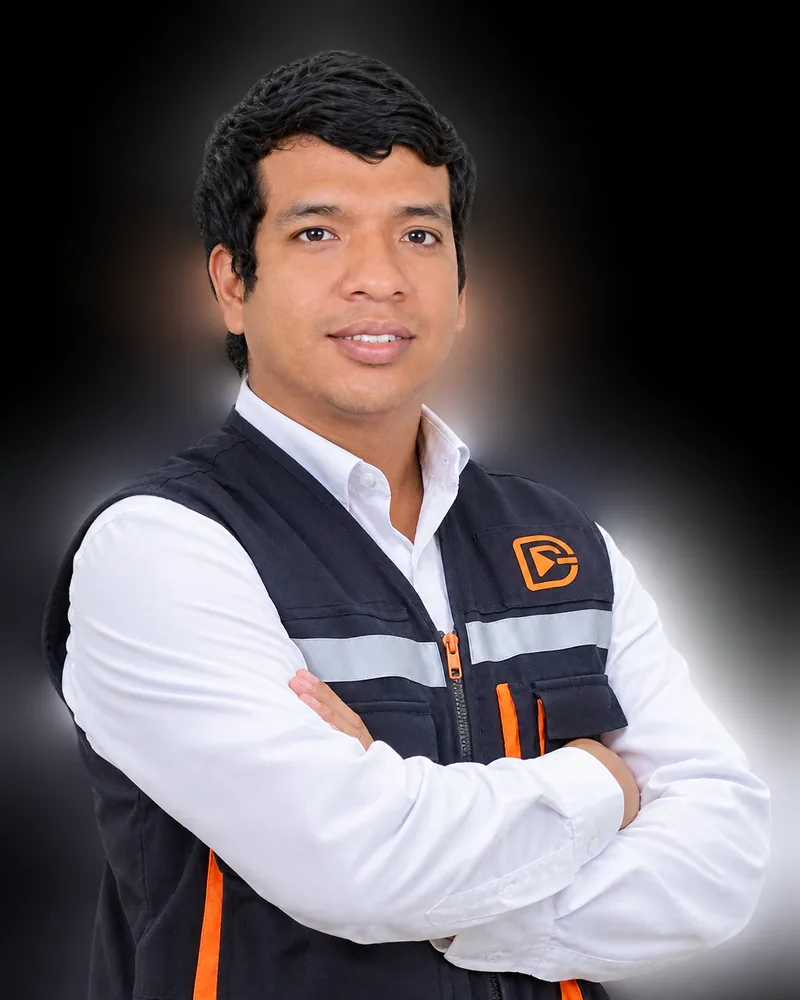
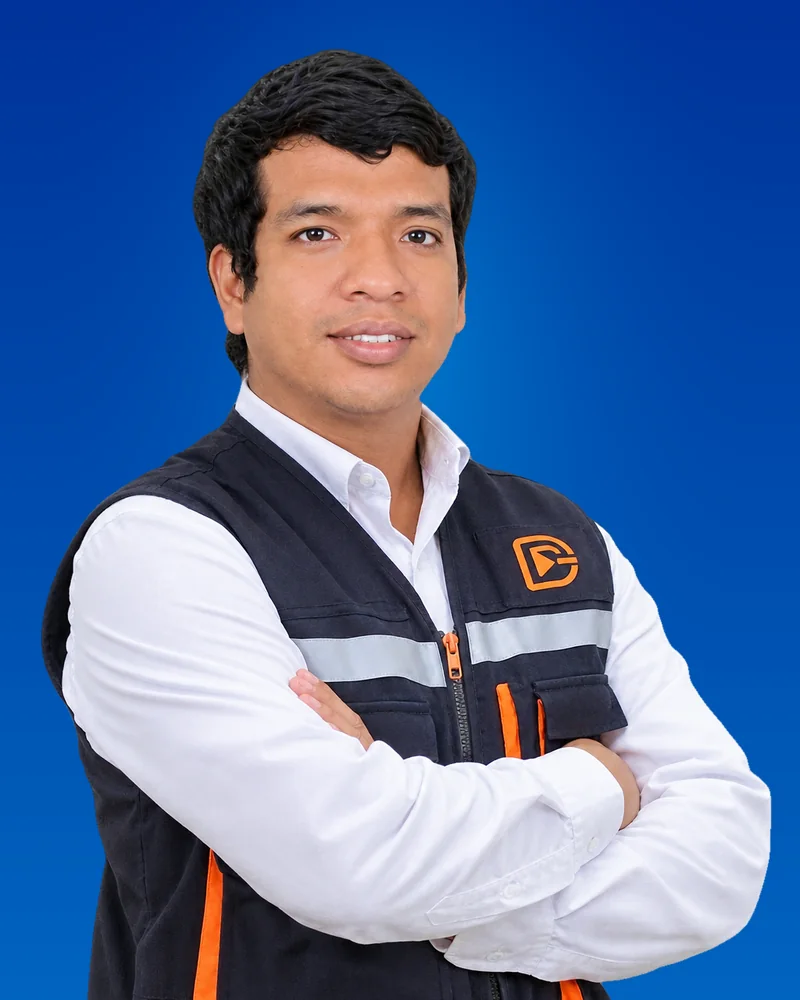
Equipo: fotos sin brillo ni fondo difuminado, con fondo azul de la marca

diff --git a/index.html b/index.html
@@ -152,7 +152,7 @@
       <h2>Las personas detrás de Gidex consulting</h2>
       <div class="rejilla-2 equipo">
         <article class="miembro">
-          <img src="assets/giancarlos.webp?v=2" alt="Giancarlos Adanaque Flores" width="800" height="1000" loading="lazy">
+          <img src="assets/giancarlos.webp?v=3" alt="Giancarlos Adanaque Flores" width="800" height="1000" loading="lazy">
           <div class="m-txt">
             <h3>Giancarlos Adanaque Flores</h3>
             <p class="rol">Cofundador · Automatización, procesos y calidad</p>
@@ -167,7 +167,7 @@
           </div>
         </article>
         <article class="miembro">
-          <img src="assets/denis.webp?v=2" alt="Denis Javier García Cortez" width="800" height="1000" loading="lazy">
+          <img src="assets/denis.webp?v=3" alt="Denis Javier García Cortez" width="800" height="1000" loading="lazy">
           <div class="m-txt">
             <h3>Denis Javier García Cortez</h3>
             <p class="rol">Cofundador · Ciencia de datos e inteligencia artificial</p>
